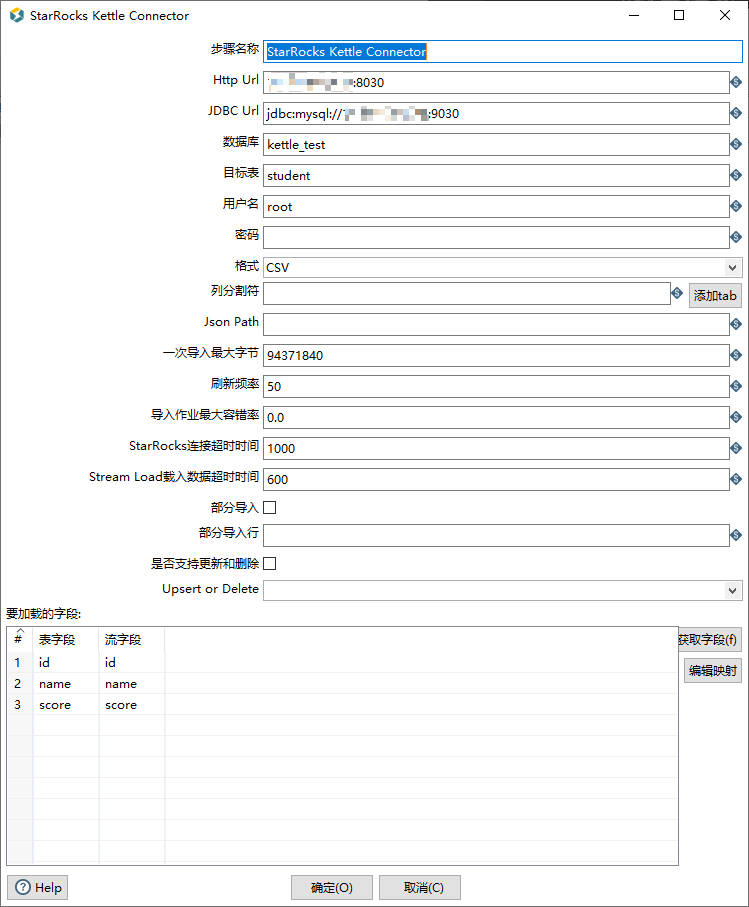
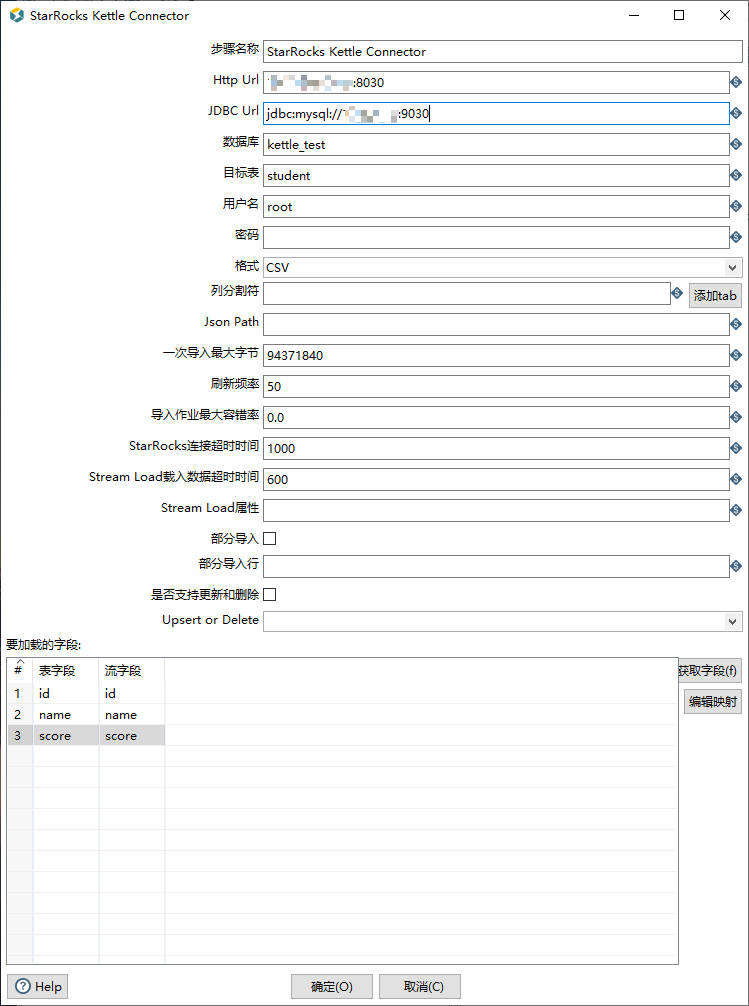
update the stream load properties.

diff --git a/impl/src/main/java/org/pentaho/di/trans/steps/starrockskettleconnector/StarRocksKettleConnectorMeta.java b/impl/src/main/java/org/pentaho/di/trans/steps/starrockskettleconnector/StarRocksKettleConnectorMeta.java
@@ -174,6 +174,10 @@ public class StarRocksKettleConnectorMeta extends BaseStepMeta implements StarRo
      * The frequency of Stream load writes.
      */
     private long scanningFrequency;
+    /**
+     * The Stream Load properties.
+     */
+    private String headerProperties;
 
     /**
      * @param httpurl Url of the stream load.
@@ -506,6 +510,17 @@ public class StarRocksKettleConnectorMeta extends BaseStepMeta implements StarRo
         return Math.min(waitForContinueTimeoutMs, 600000);
     }
 
+    /**
+     * @param headerProperties Stream Load properties.
+     */
+    public void setHeaderProperties(String headerProperties) {
+        this.headerProperties = headerProperties;
+    }
+
+    public String getHeaderProperties() {
+        return this.headerProperties;
+    }
+
     public void setDefault() {
         fieldTable = null;
         httpurl = null;
@@ -527,6 +542,7 @@ public class StarRocksKettleConnectorMeta extends BaseStepMeta implements StarRo
         enableupsertdelete = false;
         upsertordelete = "";
         scanningFrequency = 50L;
+        headerProperties = "";
 
         allocate(0);
     }
@@ -553,7 +569,9 @@ public class StarRocksKettleConnectorMeta extends BaseStepMeta implements StarRo
     private void readData(Node stepnode) throws KettleXMLException {
         try {
             String httpurl1 = XMLHandler.getTagValue(stepnode, "httpurl");
-            httpurl = Arrays.asList(httpurl1.split(";"));
+            if (httpurl1 != null && httpurl1.length() != 0) {
+                httpurl = Arrays.asList(httpurl1.split(";"));
+            }
             jdbcurl = XMLHandler.getTagValue(stepnode, "jdbcurl");
             databasename = XMLHandler.getTagValue(stepnode, "databasename");
             tablename = XMLHandler.getTagValue(stepnode, "tablename");
@@ -582,6 +600,7 @@ public class StarRocksKettleConnectorMeta extends BaseStepMeta implements StarRo
 
             upsertordelete = XMLHandler.getTagValue(stepnode, "upsertordelete");
             scanningFrequency = Long.valueOf(XMLHandler.getTagValue(stepnode, "scanningFrequency"));
+            headerProperties = XMLHandler.getTagValue(stepnode, "headerProperties");
             // Field data mapping
             int nrvalues = XMLHandler.countNodes(stepnode, "mapping");
             allocate(nrvalues);
@@ -631,6 +650,7 @@ public class StarRocksKettleConnectorMeta extends BaseStepMeta implements StarRo
         retval.append("    ").append(XMLHandler.addTagValue("enableupsertdelete", enableupsertdelete));
         retval.append("    ").append(XMLHandler.addTagValue("upsertordelete", upsertordelete));
         retval.append("    ").append(XMLHandler.addTagValue("scanningFrequency", scanningFrequency));
+        retval.append("    ").append(XMLHandler.addTagValue("headerProperties", headerProperties));
 
         for (int i = 0; i < fieldTable.length; i++) {
             retval.append("      <mapping>").append(Const.CR);
@@ -645,7 +665,9 @@ public class StarRocksKettleConnectorMeta extends BaseStepMeta implements StarRo
     public void readRep(Repository rep, IMetaStore metaStore, ObjectId id_step, List<DatabaseMeta> databases) throws KettleException {
         try {
             String httpurl1 = rep.getStepAttributeString(id_step, "httpurl");
-            httpurl = Arrays.asList(httpurl1.split(";"));
+            if (httpurl1 != null && httpurl1.length() != 0) {
+                httpurl = Arrays.asList(httpurl1.split(";"));
+            }
             jdbcurl = rep.getStepAttributeString(id_step, "jdbcurl");
             databasename = rep.getStepAttributeString(id_step, "databasename");
             tablename = rep.getStepAttributeString(id_step, "tablename");
@@ -672,6 +694,7 @@ public class StarRocksKettleConnectorMeta extends BaseStepMeta implements StarRo
             enableupsertdelete = rep.getStepAttributeBoolean(id_step, "enableupsertdelete");
             upsertordelete = rep.getStepAttributeString(id_step, "upsertordelete");
             scanningFrequency = Long.valueOf(rep.getStepAttributeString(id_step, "scanningFrequency"));
+            headerProperties = rep.getStepAttributeString(id_step, "headerProperties");
             int nrvalues = rep.countNrStepAttributes(id_step, "stream_name");
 
             allocate(nrvalues);
@@ -717,6 +740,7 @@ public class StarRocksKettleConnectorMeta extends BaseStepMeta implements StarRo
             rep.saveStepAttribute(id_transformation, id_step, "enableupsertdelete", enableupsertdelete);
             rep.saveStepAttribute(id_transformation, id_step, "upsertordelete", upsertordelete);
             rep.saveStepAttribute(id_transformation, id_step, "scanningFrequency", scanningFrequency);
+            rep.saveStepAttribute(id_transformation, id_step, "headerProperties", headerProperties);
 
             for (int i = 0; i < fieldTable.length; i++) {
                 rep.saveStepAttribute(id_transformation, id_step, i, "stream_name", fieldTable[i]);

diff --git a/ui/src/main/java/org/pentaho/di/ui/trans/steps/starrockskettleconnector/StarRocksKettleConnectorDialog.java b/ui/src/main/java/org/pentaho/di/ui/trans/steps/starrockskettleconnector/StarRocksKettleConnectorDialog.java
@@ -118,6 +118,10 @@ public class StarRocksKettleConnectorDialog extends BaseStepDialog implements St
     private TextVar wScanningFrequency;
     private FormData fdlScanningFrequency, fdScanningFrequency;
 
+    private Label wlHeaderProperties;
+    private TextVar wHeaderProperties;
+    private FormData fdlHeaderProperties,fdHeaderProperties;
+
     private Label wlReturn;
     private TableView wReturn;
     private FormData fdlReturn, fdReturn;
@@ -484,6 +488,25 @@ public class StarRocksKettleConnectorDialog extends BaseStepDialog implements St
         fdTimeout.right = new FormAttachment(100, 0);
         wTimeout.setLayoutData(fdTimeout);
 
+        // Stream Load Properties line...
+        wlHeaderProperties = new Label(shell, SWT.RIGHT);
+        wlHeaderProperties.setText(BaseMessages.getString(PKG, "StarRocksKettleConnectorDialog.HeaderProperties.Label"));
+        props.setLook(wlHeaderProperties);
+        fdlHeaderProperties = new FormData();
+        fdlHeaderProperties.left = new FormAttachment(0, 0);
+        fdlHeaderProperties.right = new FormAttachment(middle, -margin);
+        fdlHeaderProperties.top = new FormAttachment(wTimeout, margin * 2);
+        wlHeaderProperties.setLayoutData(fdlHeaderProperties);
+
+        wHeaderProperties = new TextVar(transMeta, shell, SWT.SINGLE | SWT.LEFT | SWT.BORDER);
+        props.setLook(wHeaderProperties);
+        wHeaderProperties.addModifyListener(lsMod);
+        fdHeaderProperties = new FormData();
+        fdHeaderProperties.left = new FormAttachment(middle, 0);
+        fdHeaderProperties.top = new FormAttachment(wTimeout, margin * 2);
+        fdHeaderProperties.right = new FormAttachment(100, 0);
+        wHeaderProperties.setLayoutData(fdHeaderProperties);
+
         // Partial Update line...
         wlPartialUpdate = new Label(shell, SWT.RIGHT);
         wlPartialUpdate.setText(BaseMessages.getString(PKG, "StarRocksKettleConnectorDialog.PartialUpdate.Label"));
@@ -491,7 +514,7 @@ public class StarRocksKettleConnectorDialog extends BaseStepDialog implements St
         fdlPartialUpdate = new FormData();
         fdlPartialUpdate.left = new FormAttachment(0, 0);
         fdlPartialUpdate.right = new FormAttachment(middle, -margin);
-        fdlPartialUpdate.top = new FormAttachment(wTimeout, margin * 2);
+        fdlPartialUpdate.top = new FormAttachment(wHeaderProperties, margin * 2);
         wlPartialUpdate.setLayoutData(fdlPartialUpdate);
 
         wPartialUpdate = new Button(shell, SWT.CHECK | SWT.LEFT);
@@ -500,7 +523,7 @@ public class StarRocksKettleConnectorDialog extends BaseStepDialog implements St
         fdPartialUpdate = new FormData();
         fdPartialUpdate.left = new FormAttachment(middle, 0);
         fdPartialUpdate.right = new FormAttachment(100, 0);
-        fdPartialUpdate.top = new FormAttachment(wTimeout, margin * 2);
+        fdPartialUpdate.top = new FormAttachment(wHeaderProperties, margin * 2);
         wPartialUpdate.setLayoutData(fdPartialUpdate);
         wPartialUpdate.addSelectionListener(new SelectionAdapter() {
             @Override
@@ -705,6 +728,7 @@ public class StarRocksKettleConnectorDialog extends BaseStepDialog implements St
         wTimeout.addSelectionListener(lsDef);
         wPartialColumns.addSelectionListener(lsDef);
         wUpsertorDelete.addSelectionListener(lsDef);
+        wHeaderProperties.addSelectionListener(lsDef);
 
         shell.addShellListener(new ShellAdapter() {
             @Override
@@ -871,6 +895,7 @@ public class StarRocksKettleConnectorDialog extends BaseStepDialog implements St
         wPartialUpdate.setSelection(input.getPartialUpdate());
         wEnableUpsertDelete.setSelection(input.getEnableUpsertDelete());
         wUpsertorDelete.setText(Const.NVL(input.getUpsertOrDelete(), ""));
+        wHeaderProperties.setText(Const.NVL(input.getHeaderProperties(),""));
 
         if (input.getPartialcolumns() != null) {
             wPartialColumns.setText(Const.NVL(String.join(",", input.getPartialcolumns()), ""));
@@ -1000,6 +1025,7 @@ public class StarRocksKettleConnectorDialog extends BaseStepDialog implements St
         inf.setConnecttimeout(Integer.valueOf(wConnectTimeout.getText()));
         inf.setTimeout(Integer.valueOf(wTimeout.getText()));
         inf.setPartialupdate(wPartialUpdate.getSelection());
+        inf.setHeaderProperties(wHeaderProperties.getText());
         if (wPartialColumns.getText() != null && wPartialColumns.getText().length() != 0) {
             inf.setPartialcolumns(wPartialColumns.getText().split(","));
         } else {

diff --git a/impl/src/test/java/org/pentaho/di/trans/steps/starrockskettleconnector/StarRocksKettleConnectorMetaTest.java b/impl/src/test/java/org/pentaho/di/trans/steps/starrockskettleconnector/StarRocksKettleConnectorMetaTest.java
@@ -61,7 +61,7 @@ public class StarRocksKettleConnectorMetaTest {
     public void testRoundTrip() throws KettleException {
         List<String> attributes = Arrays.asList("httpurl", "jdbcurl", "databasename", "tablename", "user", "password", "format","columnseparator","jsonpaths","maxbytes","scanningFrequency",
                 "max_filter_ratio", "connecttimeout", "timeout", "stream_name", "field_name", "partialupdate", "partialcolumns", "enableupsertdelete",
-                "upsertordelete");
+                "upsertordelete","headerProperties");
 
         Map<String, String> getterMap = new HashMap<>();
         getterMap.put("httpurl", "getHttpurl");
@@ -84,6 +84,7 @@ public class StarRocksKettleConnectorMetaTest {
         getterMap.put("partialcolumns", "getPartialcolumns");
         getterMap.put("enableupsertdelete", "getEnableUpsertDelete");
         getterMap.put("upsertordelete", "getUpsertOrDelete");
+        getterMap.put("headerProperties","getHeaderProperties");
 
         Map<String, String> setterMap = new HashMap<>();
         setterMap.put("httpurl", "setHttpurl");
@@ -106,6 +107,7 @@ public class StarRocksKettleConnectorMetaTest {
         setterMap.put("partialcolumns", "setPartialcolumns");
         setterMap.put("enableupsertdelete", "setEnableupsertdelete");
         setterMap.put("upsertordelete", "setUpsertOrDelete");
+        setterMap.put("headerProperties","setHeaderProperties");
 
         Map<String, FieldLoadSaveValidator<?>> fieldLoadSaveValidatorAttributeMap =
                 new HashMap<String, FieldLoadSaveValidator<?>>();

diff --git a/impl/src/main/java/org/pentaho/di/trans/steps/starrockskettleconnector/StarRocksKettleConnector.java b/impl/src/main/java/org/pentaho/di/trans/steps/starrockskettleconnector/StarRocksKettleConnector.java
@@ -367,6 +367,17 @@ public class StarRocksKettleConnector extends BaseStep implements StepInterface 
             }
         }
 
+        if (meta.getHeaderProperties() != null && meta.getHeaderProperties().length() != 0) {
+            try {
+                String[] properties = meta.getHeaderProperties().split(";");
+                for (String property : properties) {
+                    streamLoadProperties.put(property.split(":")[0], property.split(":")[0]);
+                }
+            } catch (RuntimeException e) {
+                throw new RuntimeException(BaseMessages.getString(PKG, "StarRocksKettleConnectorMeta.Exception.UnableProperties"));
+            }
+        }
+
         StreamLoadProperties.Builder builder = StreamLoadProperties.builder()
                 .labelPrefix("StarRocks-Kettle")
                 .loadUrls(meta.getHttpurl().toArray(new String[0]))

diff --git a/README.md b/README.md
@@ -65,29 +65,30 @@ StarRocks Kettle Connector实现了Kettle的一个插件，它用于在StarRocks
 
 ## 参数说明
 
-| 参数                                            | 是否必填 | 默认值                     | 数据类型 | 描述                                                                                                                                                                                                                                      |
-| :---------------------------------------------- | -------- | -------------------------- | -------- |-----------------------------------------------------------------------------------------------------------------------------------------------------------------------------------------------------------------------------------------|
-| 步骤名称-Step name                              | 是       | StarRocks Kettle Connector | String   | 该步骤名称                                                                                                                                                                                                                                   |
-| Http Url                                        | 是       | 无                         | String   | FE 的 HTTP Server 连接地址。格式为 `<fe_host1>:<fe_http_port1>;<fe_host2>:<fe_http_port2>`，可以提供多个地址，使用英文分号 (;) 分隔。例如 `192.168.xxx.xxx:8030;192.168.xxx.xxx:8030`。                                                                                |
-| JDBC Url                                        | 是       | 无                         | String   | FE 的 MySQL Server 连接地址。格式为 `jdbc:mysql://<fe_host>:<fe_query_port>`。                                                                                                                                                                    |
-| 数据库-DataBase Name                            | 是       | 无                         | String   | StarRocks 目标数据库的名称。                                                                                                                                                                                                                     |
-| 目标表-Table Name                               | 是       | 无                         | String   | StarRocks 目标数据表的名称。                                                                                                                                                                                                                     |
-| 用户名-User                                     | 是       | 无                         | String   | 用于访问 StarRocks 集群的用户名。该账号需具备 StarRocks 目标数据表的写权限。有关用户权限的说明，请参见[用户权限](https://docs.starrocks.io/zh-cn/latest/administration/User_privilege)。                                                                                             |
-| 密码-Password                                   | 否       | 无                         | String   | 用于访问 StarRocks 集群的用户密码。若没有密码则不用填写。                                                                                                                                                                                                      |
-| 格式-Format                                     | 是       | CSV                        | String   | Stream Load 导入时的数据格式。取值为 `CSV` 或者 `JSON`。                                                                                                                                                                                               |
-| 列分割符-Column Sepatator                       | 否       | \t                         | String   | 用于指定源数据文件中的列分隔符。如果不指定该参数，则默认为 `\t`，即 Tab。必须确保这里指定的列分隔符与源数据文件中的列分隔符一致。该参数当选择CSV格式的时候必须填写。<br />**说明**<br />StarRocks 支持设置长度最大不超过 50 个字节的 UTF-8 编码字符串作为列分隔符，包括常见的逗号 `,`、`Tab` 和 `Pipe ()`                                                 |
-| Json Paths                                      | 否       | 无                         | String   | 用于指定待导入的字段的名称。仅在使用匹配模式导入 JSON 数据时需要指定该参数。当格式选择JSON时填写该参数。参见[导入 JSON 数据时配置列映射关系](https://docs.starrocks.io/zh-cn/latest/sql-reference/sql-statements/data-manipulation/STREAM%20LOAD#导入-json-数据时配置列映射关系).                                |
-| 一次导入最大字节-Max Bytes                      | 否       | 94371840(90M)              | String   | 数据攒批的大小，达到该阈值后将数据通过 Stream Load 批量写入 StarRocks。取值范围：[64MB, 10GB]。                                                                                                                                                                       |
-| 刷新频率-Scanning Frequency                     | 否       | 50                         | String   | 数据刷新的时间，每隔多长时间进行一次数据刷新写入。参数单位为毫秒，取值大于等于50毫秒。                                                                                                                                                                                            |
-| 导入作业最大容错率-Max Filter Ratio             | 否       | 0                          | String   | 用于指定导入作业的最大容错率，即导入作业能够容忍的因数据质量不合格而过滤掉的数据行所占的最大比例。取值范围：0~1。默认值：0。更多说明，请参见 [STREAM LOAD](https://docs.starrocks.io/zh-cn/latest/sql-reference/sql-statements/data-manipulation/STREAM%20LOAD#opt_properties)。                             |
-| StarRocks连接超时时间-Connect Timeout           | 否       | 1000                       | String   | 连接 `Http-url` 的超时时间。取值范围：[100, 60000]。                                                                                                                                                                                                  |
-| Stream Load载入数据超时时间-Stream Load Timeout | 否       | 600                        | String   | Stream Load 超时时间，单位为秒。                                                                                                                                                                                                                  |
-| 部分导入-Partial Update                         | 否       | 否                         |          | StarRocks v2.2 起，主键模型表支持部分更新，可以选择只更新部分指定的列。若勾选实现部分导入需要在“部分导入行”中填写要导入的列名。                                                                                                                                                                |
-| 部分导入行-Partial Update Columns               | 否       | 无                         | String   | 需要部分更新的列名。需要填写所要写入的目标表中对应的列名。各列名之间要以英文逗号隔开`,`，例如：`col1,col2,col3`                                                                                                                                                                       |
+| 参数                                            | 是否必填 | 默认值                     | 数据类型 | 描述                                                         |
+| :---------------------------------------------- | -------- | -------------------------- | -------- | ------------------------------------------------------------ |
+| 步骤名称-Step name                              | 是       | StarRocks Kettle Connector | String   | 该步骤名称                                                   |
+| Http Url                                        | 是       | 无                         | String   | FE 的 HTTP Server 连接地址。格式为 `<fe_host1>:<fe_http_port1>;<fe_host2>:<fe_http_port2>`，可以提供多个地址，使用英文分号 (;) 分隔。例如 `192.168.xxx.xxx:8030;192.168.xxx.xxx:8030`。 |
+| JDBC Url                                        | 是       | 无                         | String   | FE 的 MySQL Server 连接地址。格式为 `jdbc:mysql://<fe_host>:<fe_query_port>`。 |
+| 数据库-DataBase Name                            | 是       | 无                         | String   | StarRocks 目标数据库的名称。                                 |
+| 目标表-Table Name                               | 是       | 无                         | String   | StarRocks 目标数据表的名称。                                 |
+| 用户名-User                                     | 是       | 无                         | String   | 用于访问 StarRocks 集群的用户名。该账号需具备 StarRocks 目标数据表的写权限。有关用户权限的说明，请参见[用户权限](https://docs.starrocks.io/zh-cn/latest/administration/User_privilege)。 |
+| 密码-Password                                   | 否       | 无                         | String   | 用于访问 StarRocks 集群的用户密码。若没有密码则不用填写。    |
+| 格式-Format                                     | 是       | CSV                        | String   | Stream Load 导入时的数据格式。取值为 `CSV` 或者 `JSON`。     |
+| 列分割符-Column Sepatator                       | 否       | \t                         | String   | 用于指定源数据文件中的列分隔符。如果不指定该参数，则默认为 `\t`，即 Tab。必须确保这里指定的列分隔符与源数据文件中的列分隔符一致。该参数当选择CSV格式的时候必须填写。<br />**说明**<br />StarRocks 支持设置长度最大不超过 50 个字节的 UTF-8 编码字符串作为列分隔符，包括常见的逗号 `,`、`Tab` 和 `Pipe ()` |
+| Json Paths                                      | 否       | 无                         | String   | 用于指定待导入的字段的名称。仅在使用匹配模式导入 JSON 数据时需要指定该参数。当格式选择JSON时填写该参数。参见[导入 JSON 数据时配置列映射关系](https://docs.starrocks.io/zh-cn/latest/sql-reference/sql-statements/data-manipulation/STREAM%20LOAD#导入-json-数据时配置列映射关系). |
+| 一次导入最大字节-Max Bytes                      | 否       | 94371840(90M)              | String   | 数据攒批的大小，达到该阈值后将数据通过 Stream Load 批量写入 StarRocks。取值范围：[64MB, 10GB]。 |
+| 刷新频率-Scanning Frequency                     | 否       | 50                         | String   | 数据刷新的时间，每隔多长时间进行一次数据刷新写入。参数单位为毫秒，取值大于等于50毫秒。 |
+| 导入作业最大容错率-Max Filter Ratio             | 否       | 0                          | String   | 用于指定导入作业的最大容错率，即导入作业能够容忍的因数据质量不合格而过滤掉的数据行所占的最大比例。取值范围：0~1。默认值：0。更多说明，请参见 [STREAM LOAD](https://docs.starrocks.io/zh-cn/latest/sql-reference/sql-statements/data-manipulation/STREAM%20LOAD#opt_properties)。 |
+| StarRocks连接超时时间-Connect Timeout           | 否       | 1000                       | String   | 连接 `Http-url` 的超时时间。取值范围：[100, 60000]。         |
+| Stream Load载入数据超时时间-Stream Load Timeout | 否       | 600                        | String   | Stream Load 超时时间，单位为秒。                             |
+| Stream Load 属性-Stream Load Properties         | 否       | 无                         | String   | Stream Load 的参数，控制导入行为，支持的参数和说明，请参见 [STREAM LOAD](https://docs.starrocks.io/zh-cn/latest/sql-reference/sql-statements/data-manipulation/STREAM LOAD)。<br />参数的名称和值需要用`:`隔开，各参数之间用`;`隔开。例如：`key1:value1;key2:value2` |
+| 部分导入-Partial Update                         | 否       | 否                         |          | StarRocks v2.2 起，主键模型表支持部分更新，可以选择只更新部分指定的列。若勾选实现部分导入需要在“部分导入行”中填写要导入的列名。 |
+| 部分导入行-Partial Update Columns               | 否       | 无                         | String   | 需要部分更新的列名。需要填写所要写入的目标表中对应的列名。各列名之间要以英文逗号隔开`,`，例如：`col1,col2,col3` |
 | 是否支持更新和删除-Enable Upsert Delete         | 否       | 无                         |          | StarRocks 目前支持 `UPSERT` 和 `DELETE `操作，不支持一次作业区分`UPSERT`和`DELETE`，只能对一次导入单独实现`UPSERT`和`DELETE`。<br />  **UPSERT**: 该操作用于插入或更新数据。如果数据已存在（基于主键/唯一键），它将更新该数据；如果数据不存在，它将插入新数据。<br /> **DELETE**: 该操作用于删除符合条件的数据记录。需要指定删除的条件，满足该条件的所有记录都将被删除。 |
-| Upsert or Delete                                | 否       | 无                         | String   | 当勾选“是否支持更新和删除”时需要选择是执行UPSERT或DELETE操作。若未选择则不执行更新或删除操作。                                                                                                                                                                                  |
-| 表字段-Table field                              | 否       | 无                         | String   | StarRocks目标表中各列的名称。需要与流字段一一对应。                                                                                                                                                                                                          |
-| 流字段-Stream field                             | 否       | 无                         | String   | 上一步骤传输过来的数据列名称。从上一步骤传递的数据列名称和类型必须与StarRocks目标表的数据格式和大小完全匹配。                                                                                                                                                                             |
+| Upsert or Delete                                | 否       | 无                         | String   | 当勾选“是否支持更新和删除”时需要选择是执行UPSERT或DELETE操作。若未选择则不执行更新或删除操作。 |
+| 表字段-Table field                              | 否       | 无                         | String   | StarRocks目标表中各列的名称。需要与流字段一一对应。          |
+| 流字段-Stream field                             | 否       | 无                         | String   | 上一步骤传输过来的数据列名称。从上一步骤传递的数据列名称和类型必须与StarRocks目标表的数据格式和大小完全匹配。 |
 
 
 
@@ -596,7 +597,6 @@ StarRocks > select * from detailDemo;
 - Kettle在进行Check时StarRocks中的`largeint`会被获取成`UNKNOW`，`boolean`会被映射成`tinyint`，这两处错误可忽略。
 
 ## 目前还未实现
-- 添加`addHeaders(getSinkStreamLoadProperties())`，不能自主配置`StarRocks Stream Load`其余配置参数。
 - 如果想要实现源数据中的一部分数据导入StarRocks中，需要在两步骤之间加入一个过滤步骤。
 - 对于数据的更新插入和删除功能还没有实现分别的删除和更新插入，只能单独的删除或更新插入。
 - 可以尝试根据dialog中的`stepname`命名`.labelPrefix()`，
